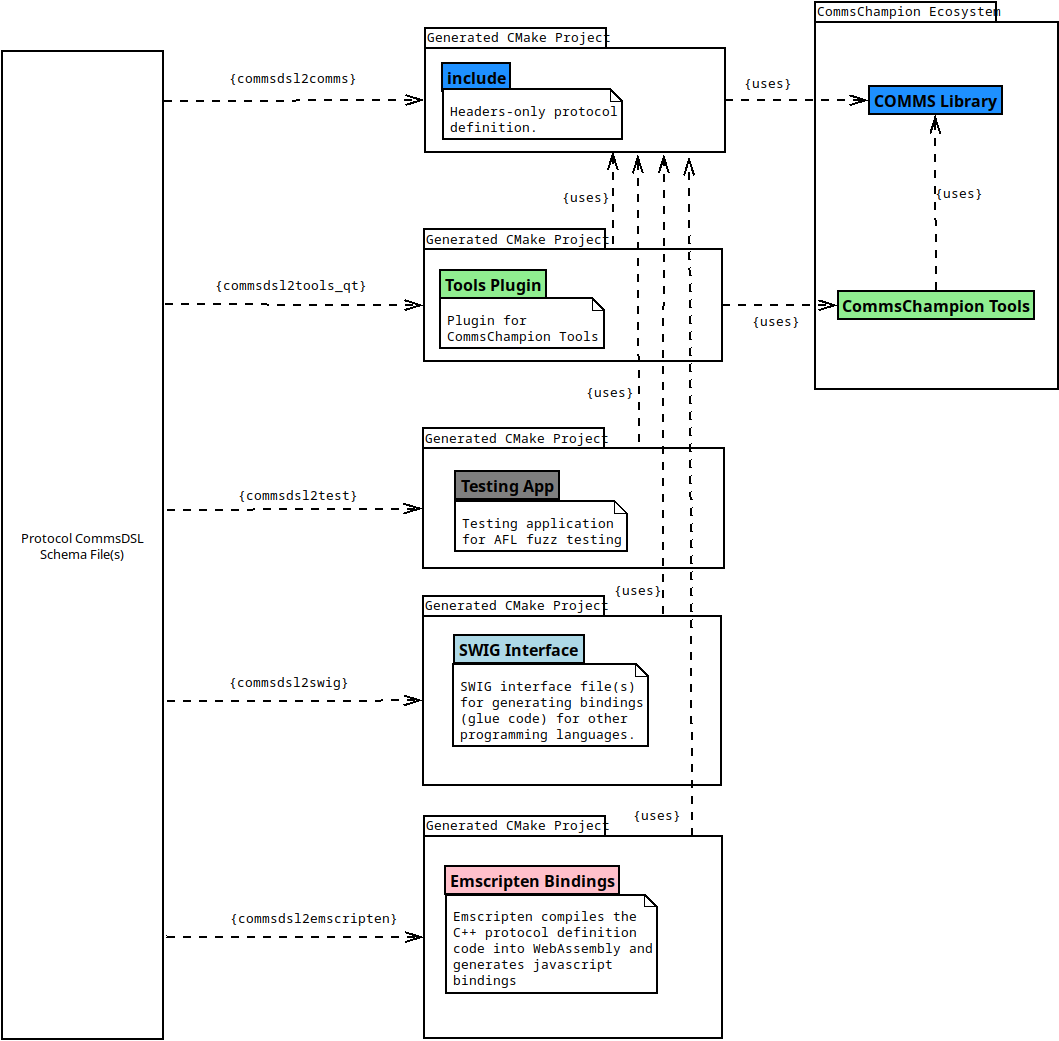
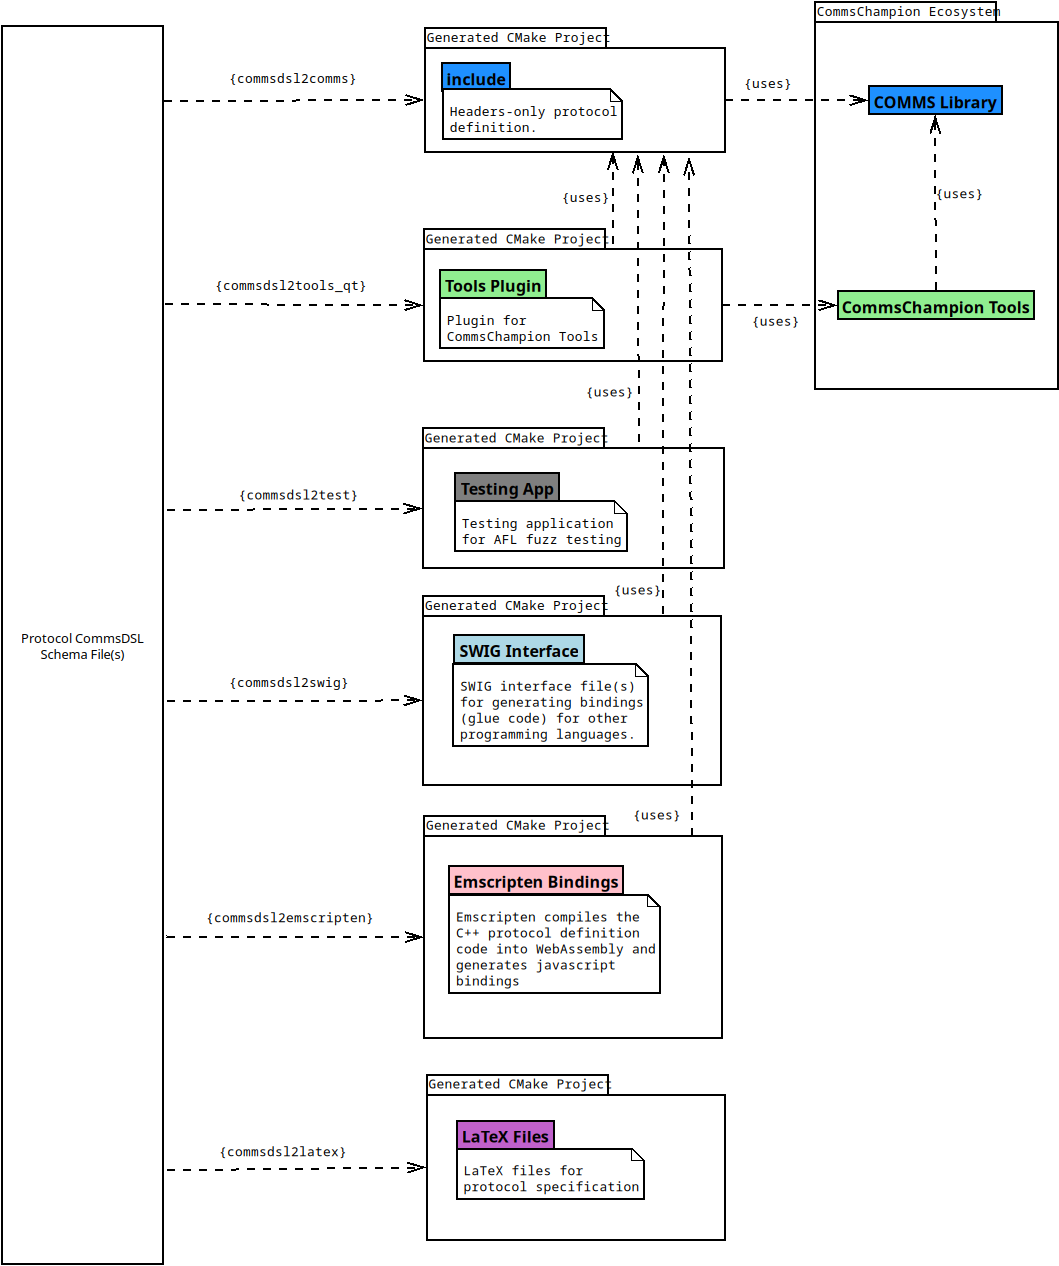
Announcing v7.2 release of commsdsl with commsdsl2latex code generator.

diff --git a/_includes/versions.md b/_includes/versions.md
@@ -2,6 +2,7 @@ Versions Compatibilty Table
 
 | commsdsl2comms | COMMS Library | CommsDSL Specification |
 |---------------------------------------------------------|
+| (>=) v7.2 | (>=) v5.4.4 | (<=) v7.1|
 | (>=) v7.1 | (>=) v5.4.2 | (<=) v7.0|
 | (>=) v7.0 | (>=) v5.3 | (<=) v7.0|
 | (>=) v6.3.2 | (>=) v5.2.3 | (<=) v6.1|

diff --git a/_posts/2025-08-29-commsdl2latex.md b/_posts/2025-08-29-commsdl2latex.md
@@ -1,0 +1,9 @@
+---
+date: 2025-08-29 00:00:01
+title: Supporting protocol spec generation.
+categories:
+  - news
+---
+
+Introducing new **commsdsl2latex** code generator in the [v7.2](https://github.com/commschamp/commsdsl/releases/tag/v7.2) release of the
+[commsdsl](https://github.com/commschamp/commsdsl) project.
